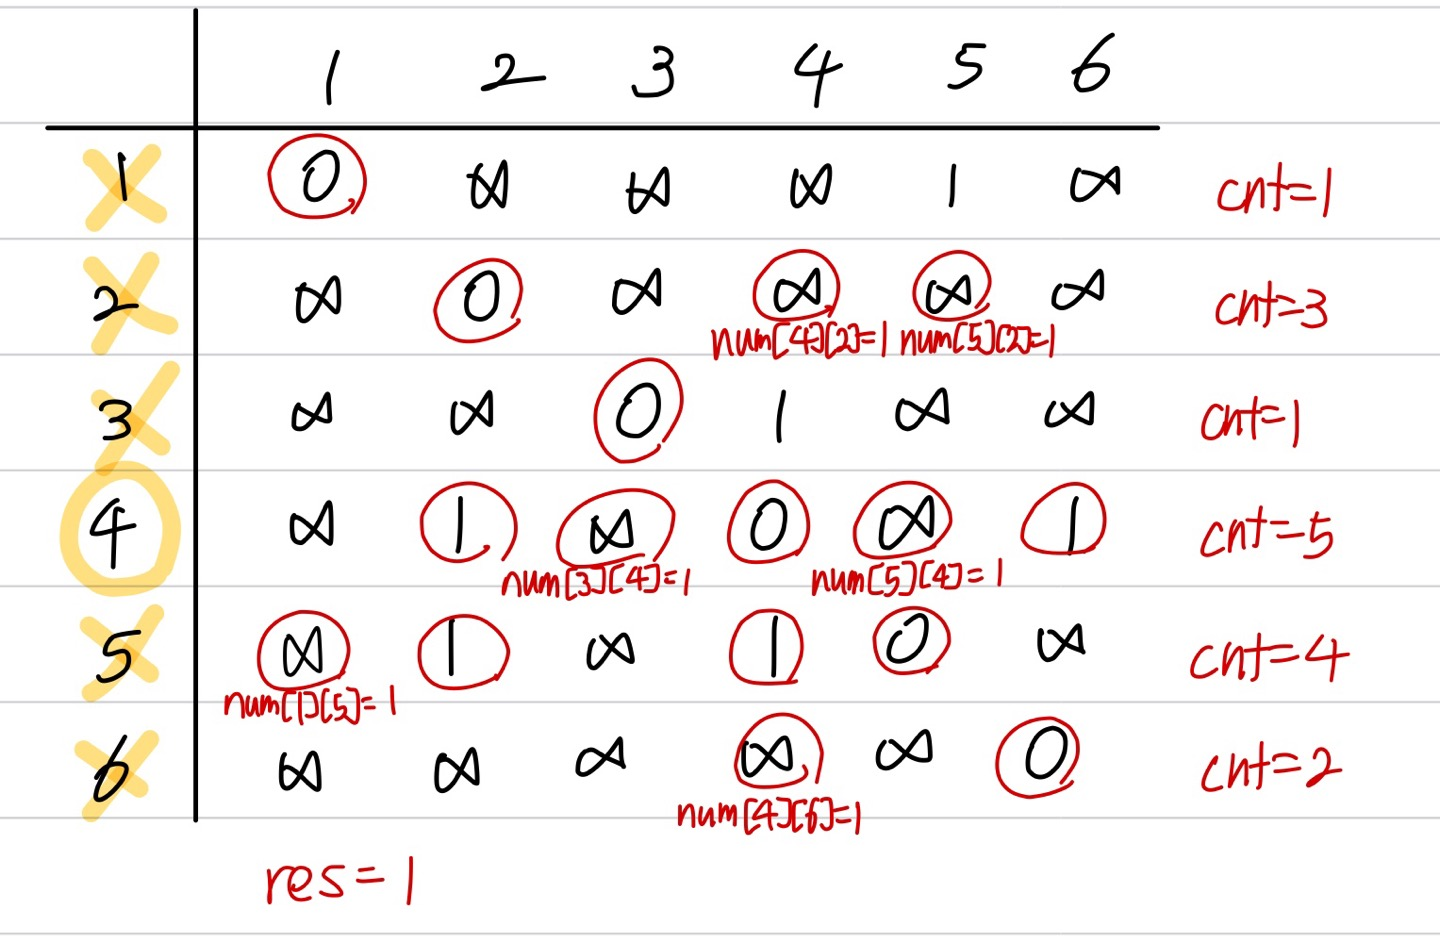
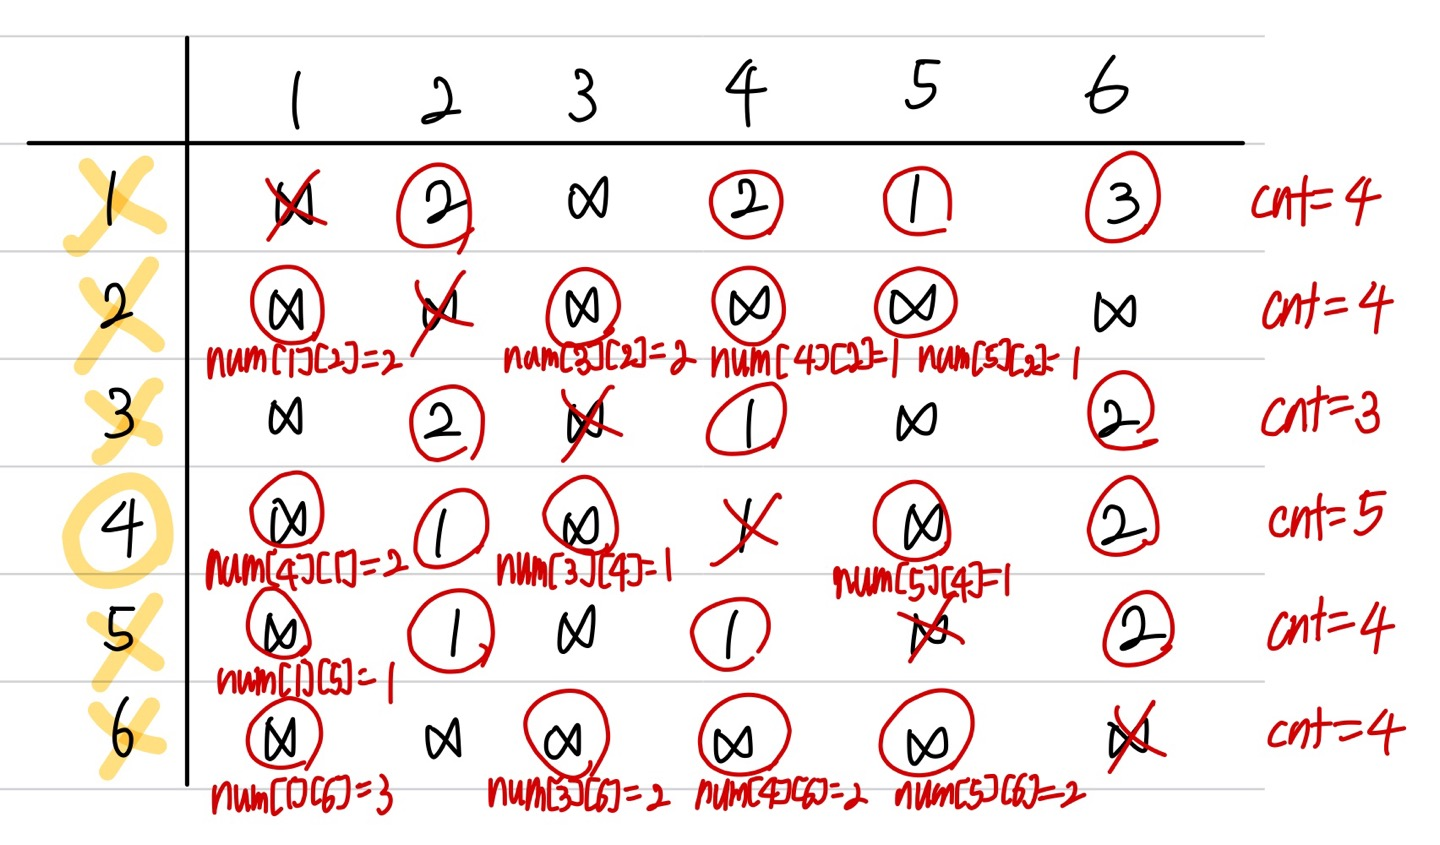
commit

Changed region(s): [[0.0, 0.0, 1.0, 0.9846], [0.8125, 0.8, 1.0, 0.8923], [0.8438, 0.3077, 0.9688, 0.4]]

diff --git a/_posts/Baekjoon/플로이드 와샬/2022-04-01-2458.md b/_posts/Baekjoon/플로이드 와샬/2022-04-01-2458.md
@@ -100,12 +100,12 @@ int main() {
 	cin.tie(NULL); cout.tie(NULL);
 
 	cin >> N >> M;
-	// 플로이드 와샬 초기 설정
 	for (int i = 1; i <= N; i++) {
 		for (int j = 1; j <= N; j++) {
-			num[i][j] = INF;
+			if(i != j) num[i][j] = INF;
 		}
 	}
+
 	for (int i = 0; i < M; i++) {
 		cin >> a >> b;
 		num[a][b] = 1;
@@ -116,6 +116,7 @@ int main() {
 	for (int i = 1; i <= N; i++) {
 		int cnt = 0;
 		for (int j = 1; j <= N; j++) {
+			if (i == j) continue;
 			// i보다 큰 사람이 존재 || i보다 작은 사람이 존재
 			if (num[i][j] != INF || num[j][i] != INF) {
 				cnt++;
